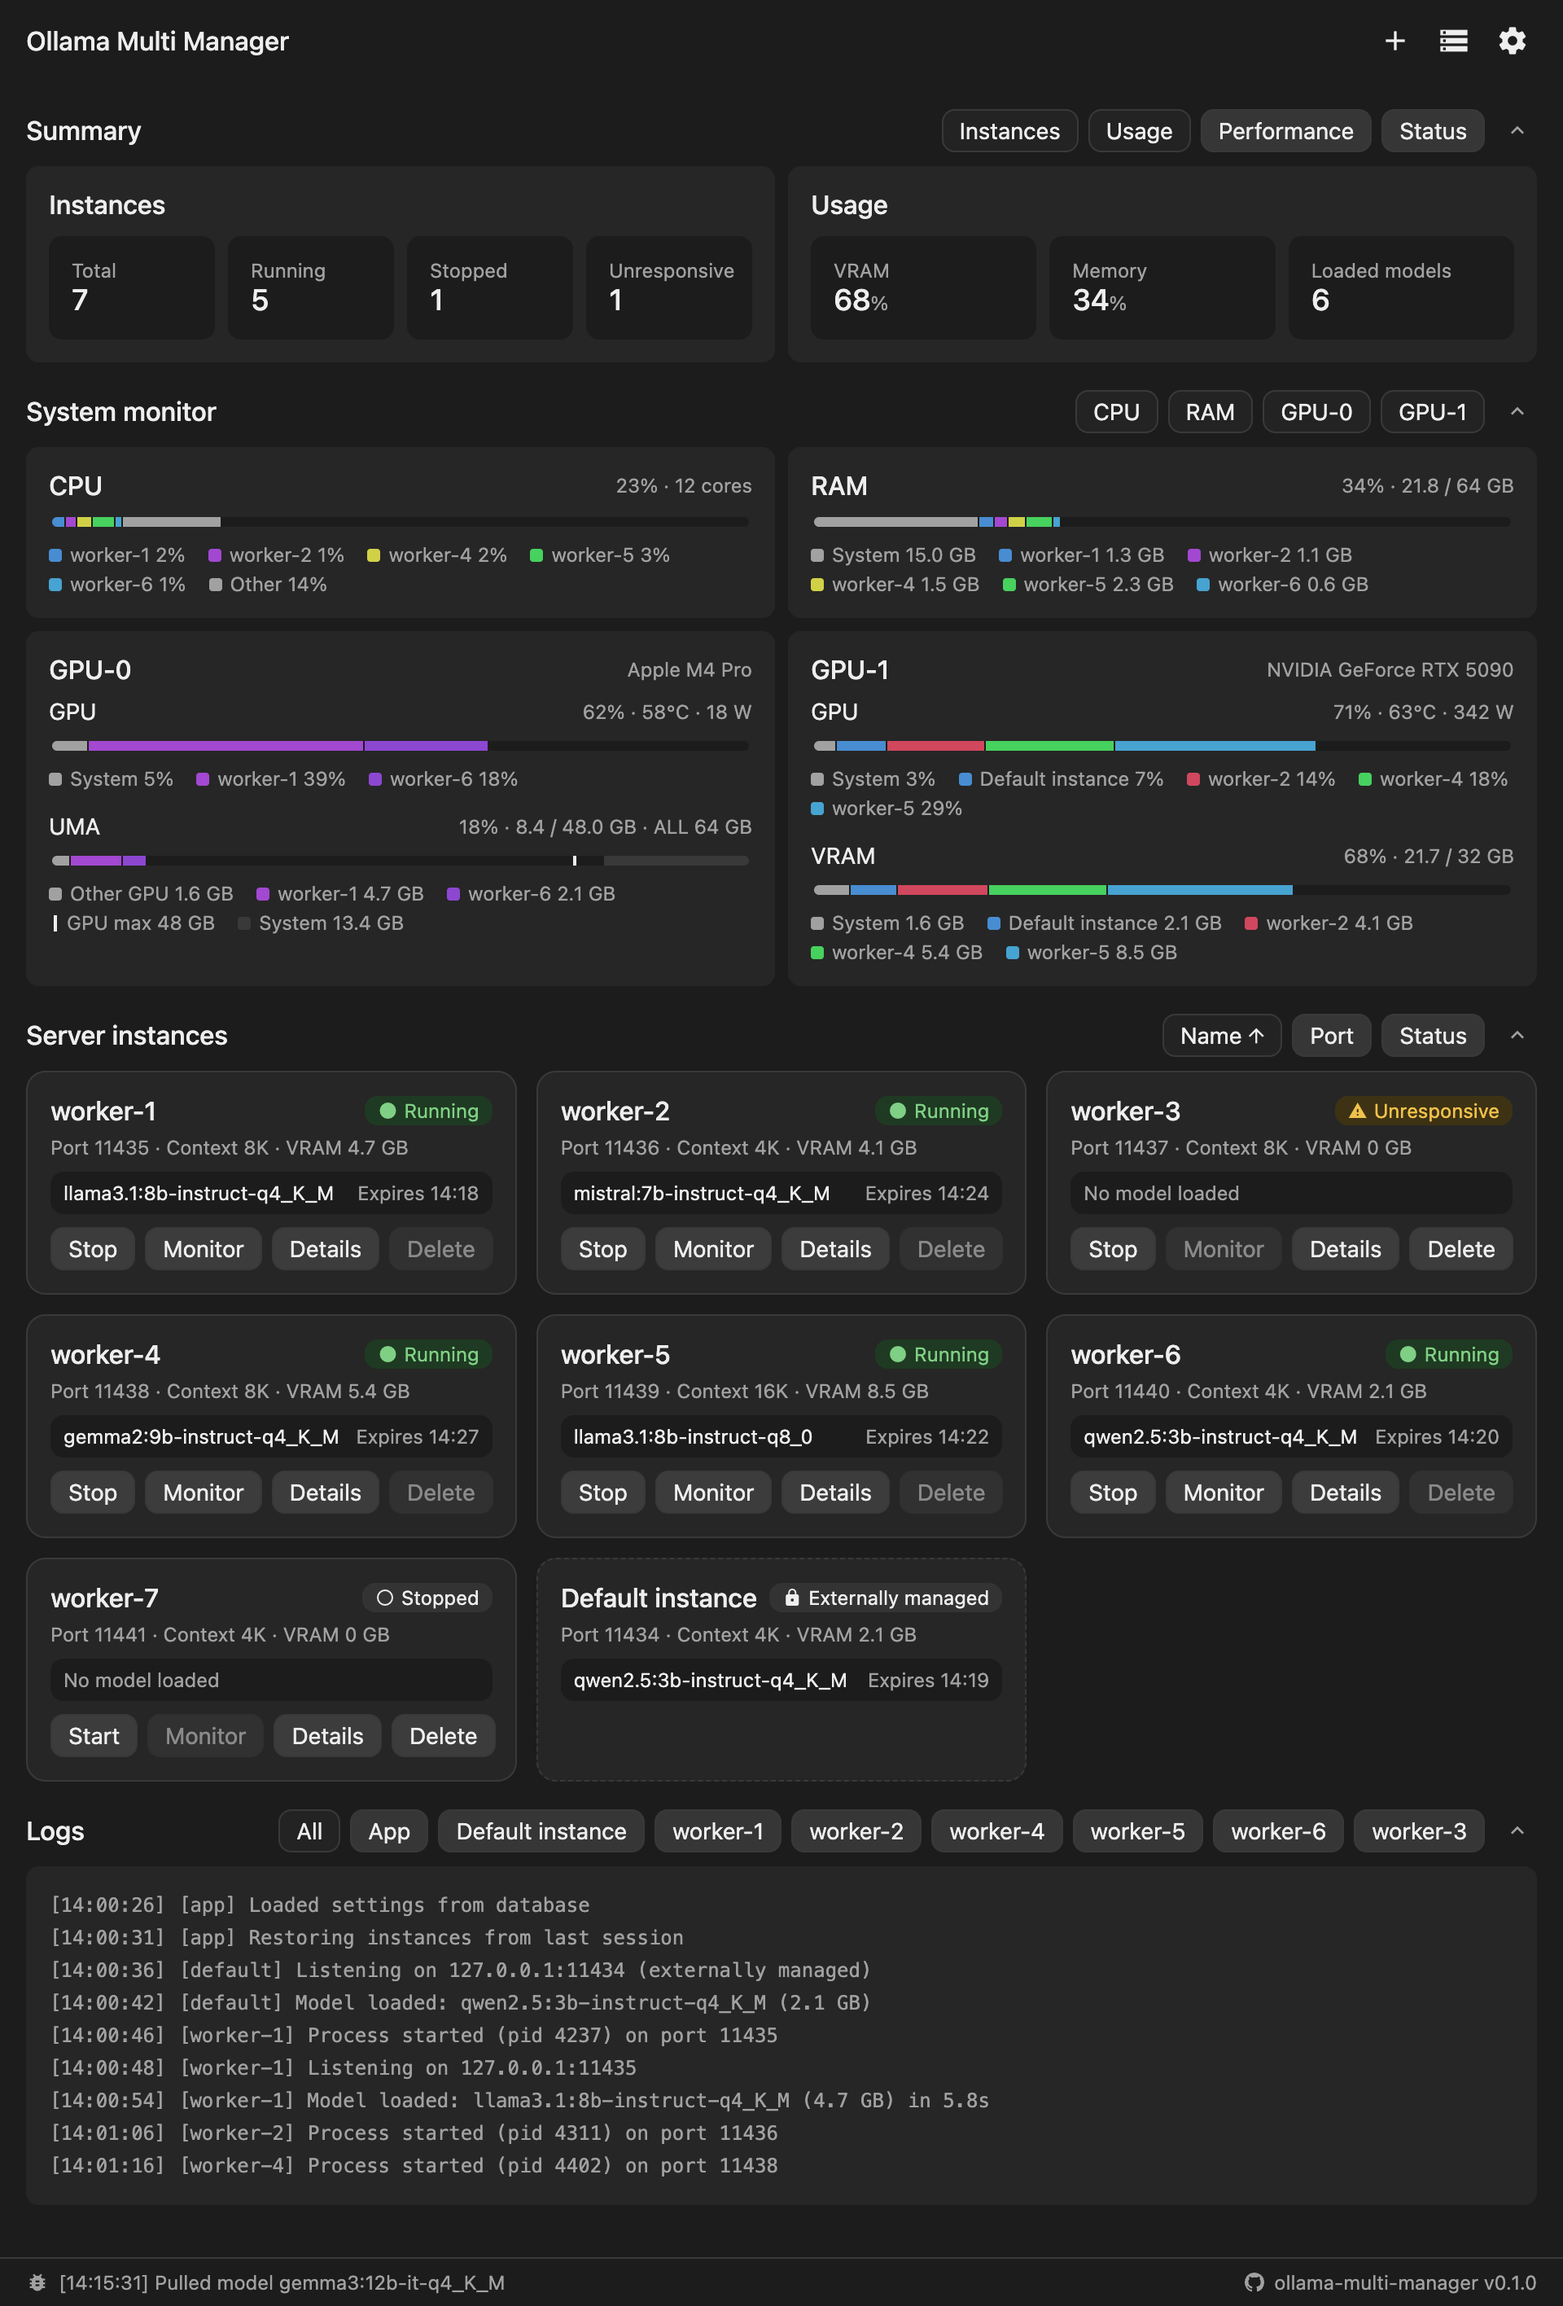
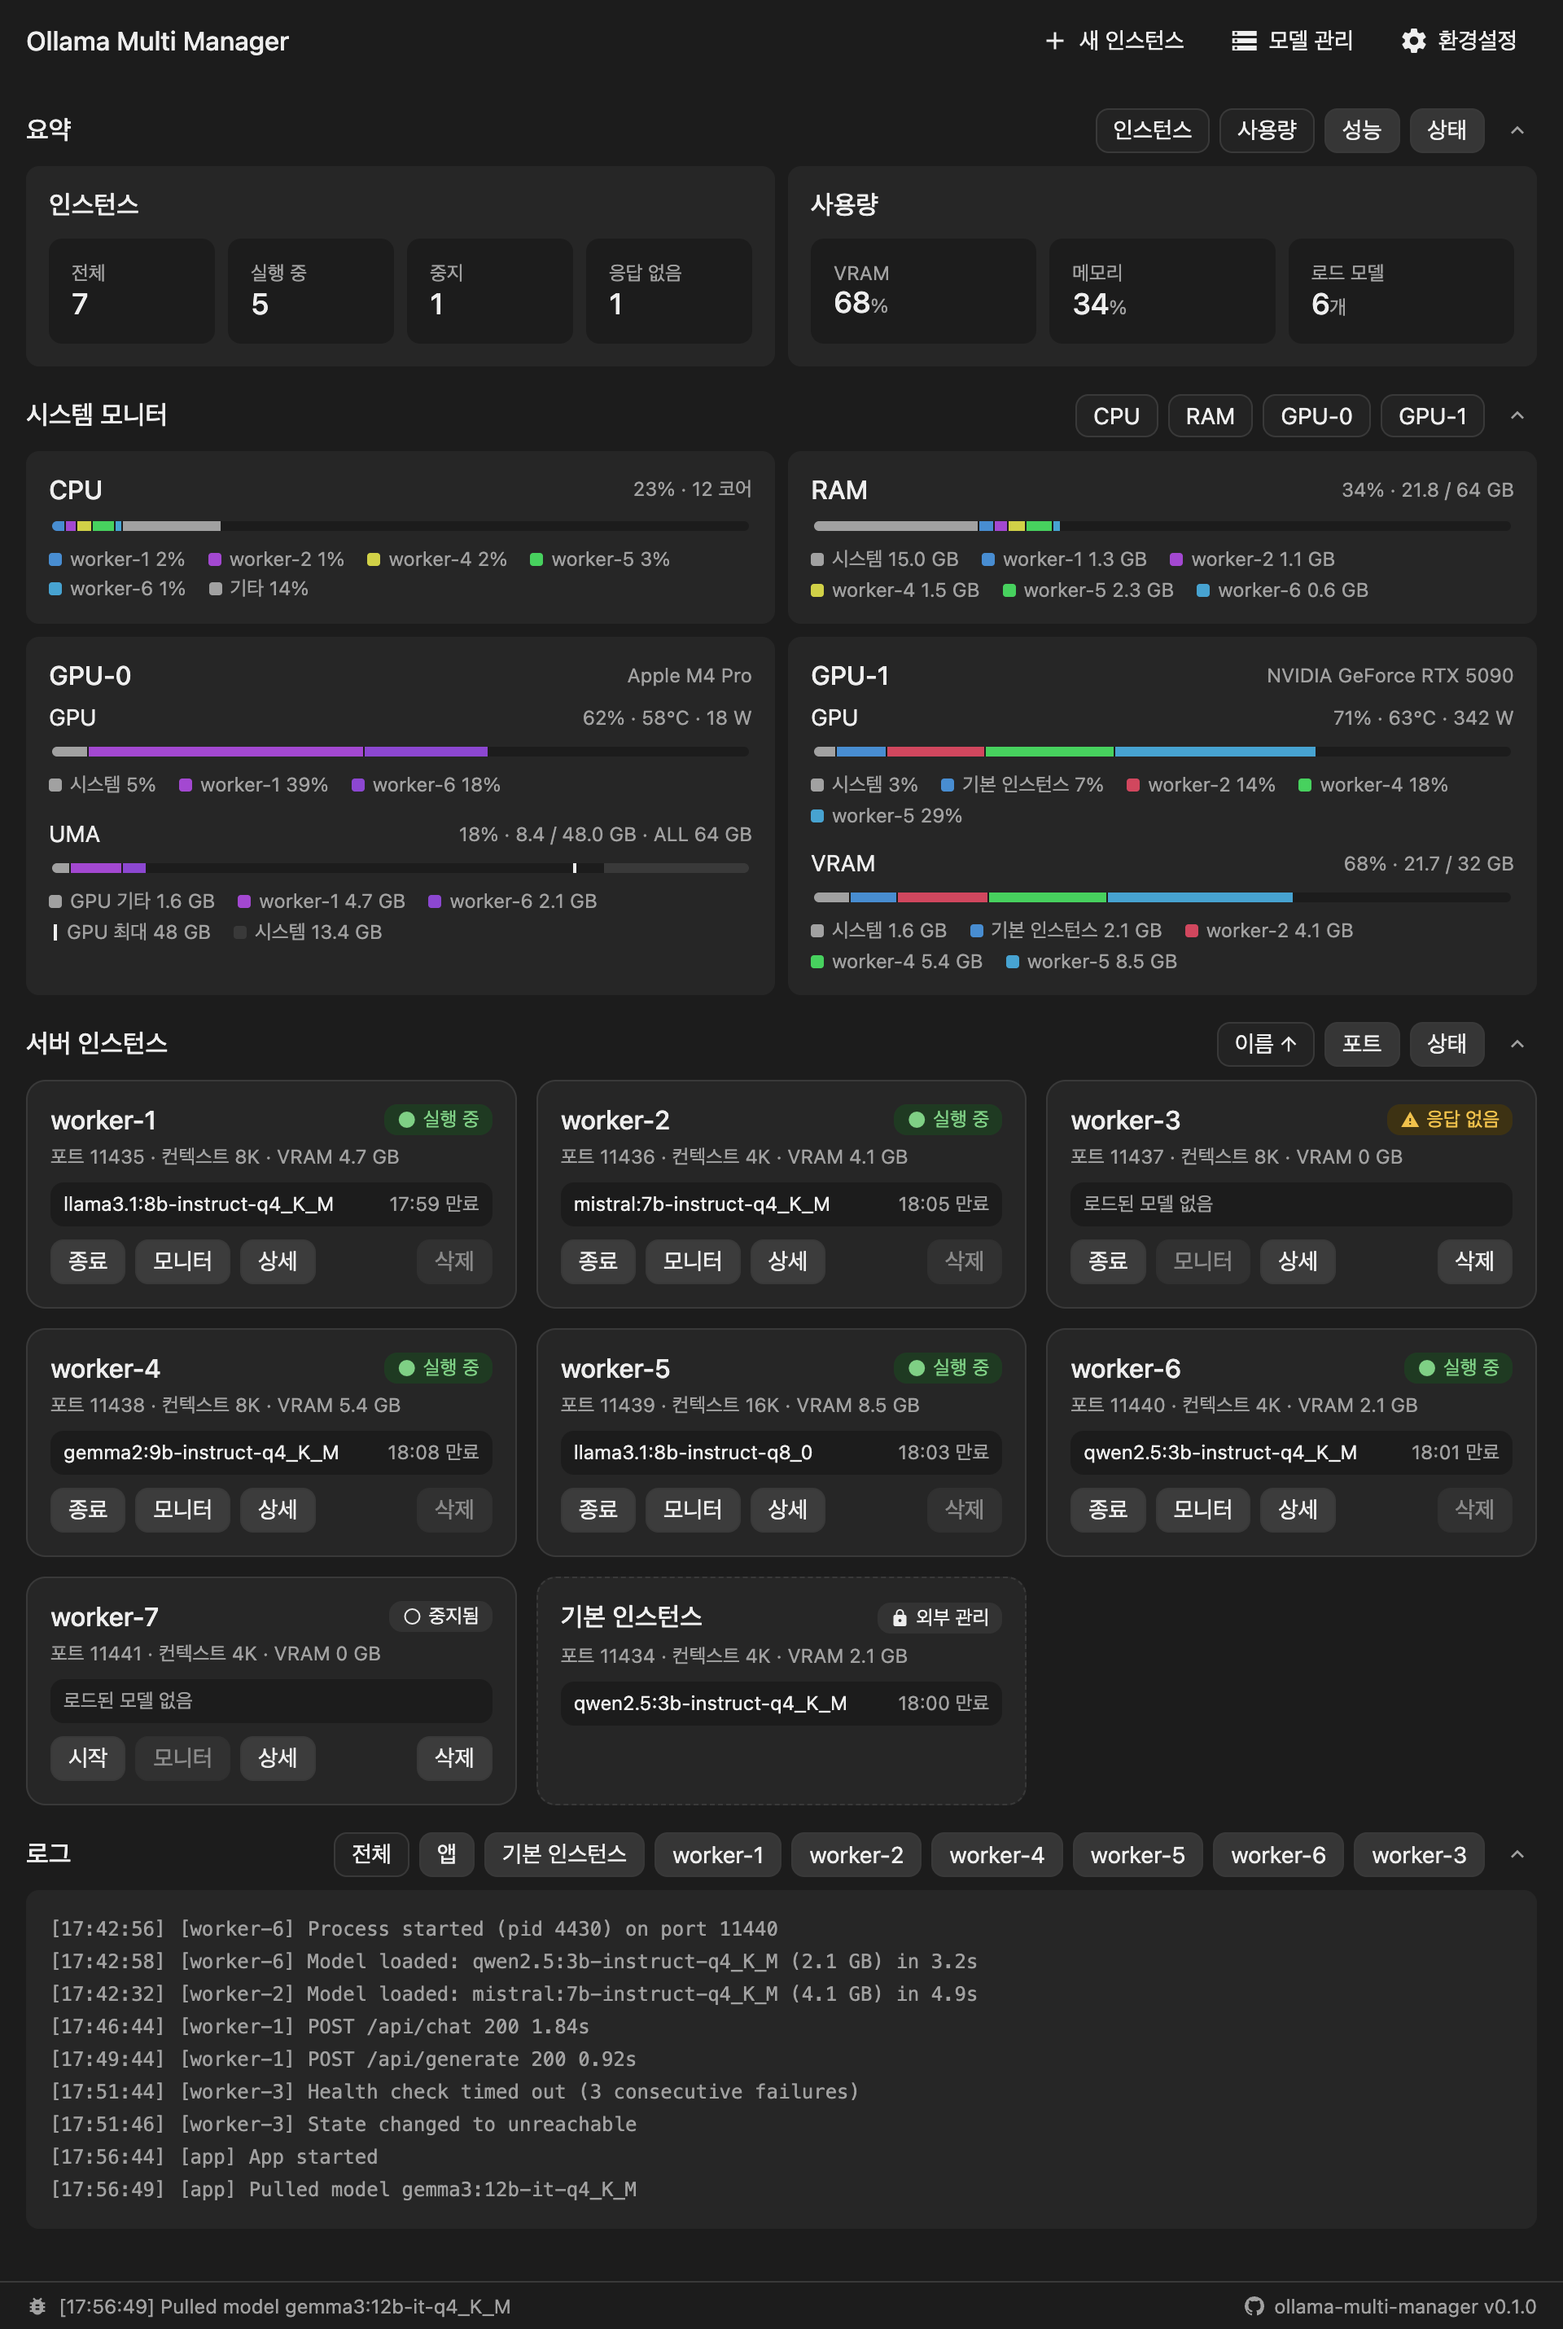
헤더 버튼을 아이콘+라벨로 바꾸고 640px 미만에서는 아이콘만 표시, 목업 스크린샷 교체

diff --git a/frontend/mockup/index.html b/frontend/mockup/index.html
@@ -9,8 +9,8 @@
 :root[data-theme=light]{color-scheme:light}:root[data-theme=dark]{color-scheme:dark}
 *{box-sizing:border-box}body{margin:0;height:100vh;height:100dvh;display:flex;flex-direction:column;overflow:hidden;font:.875rem system-ui,sans-serif;background:var(--bg);color:var(--text)}
 header,main{max-width:960px;margin:auto;padding:16px}main{max-width:none;margin:0;flex:1;min-height:0;overflow-y:auto;padding-inline:max(16px,calc((100% - 928px)/2))}header{max-width:none;margin:0}header{flex:none;height:50px;padding:10px 16px;display:flex;align-items:center;gap:12px}header h1{flex:0 1 auto;min-width:0;overflow:hidden;text-overflow:ellipsis}
-header i.material-icons{display:none}header button{height:30px;white-space:nowrap}header .btns{margin-left:auto;flex:none}
-header:not(.mwh) i.material-icons{display:inline-block;font-size:1.25rem}header:not(.mwh) button{width:30px;height:30px;padding:0;display:inline-flex;align-items:center;justify-content:center;border:0;background:none}header:not(.mwh) button:hover{background:light-dark(var(--ghost-hover),var(--card))}header:not(.mwh) button:active{background:light-dark(var(--ghost-active),color-mix(in srgb,var(--card) 88%,var(--text)))}header:not(.mwh) button span{display:none}
+header i.material-icons{display:none}header button{height:30px;white-space:nowrap}header .btns{margin-left:auto;flex:none}header:not(.mwh) .btns{display:flex;gap:4px}header:not(.mwh) i.material-icons{display:inline-block;font-size:1.125rem}header:not(.mwh) button{height:30px;padding:0 12px;display:inline-flex;align-items:center;gap:6px;border:0;background:none}header:not(.mwh) button:hover{background:light-dark(var(--ghost-hover),var(--card))}header:not(.mwh) button:active{background:light-dark(var(--ghost-active),color-mix(in srgb,var(--card) 88%,var(--text)))}@media(max-width:639.98px){header:not(.mwh) button{width:30px;padding:0;justify-content:center}header:not(.mwh) button span{display:none}}
+
 footer{flex:none;height:30px;background:var(--bg);border-top:1px solid var(--line)}footer div{height:100%;padding:0 16px;display:flex;align-items:center;justify-content:space-between;gap:16px;font-size:.75rem;color:var(--sub)}footer .l{min-width:0;display:flex;align-items:center;gap:6px}footer .l .material-icons{flex:none;font-size:.875rem}#status{min-width:0;white-space:nowrap;overflow:hidden;text-overflow:ellipsis}#ver{flex:none;display:inline-flex;align-items:center;gap:6px;color:inherit}#ver svg{flex:none}
 #det:has(#pn) .box,#det:has(#mp) .box,#det:has(#dt) .box,#dlg .box{background:var(--bg);--surf:var(--bg)}
 #det:has(#pn) input,#det:has(#mp) input:not([type=checkbox]),#det:has(#mp) select,#dlg input:not(.sw),#dlg select{background:var(--field)}

diff --git a/frontend/src/styles/_header.scss b/frontend/src/styles/_header.scss
@@ -52,21 +52,25 @@ header {
   }
 }
 
-// the buttons of the page's header are icons only, with no fill: just a hover and press shade
-// (the monitor window's category buttons keep their words and their look)
+// the page header's buttons: an icon before the label, no border or fill, just a hover and press shade
+// (the monitor window's category buttons keep their look)
 header:not(.mwh) {
+  .btns {
+    display: flex;
+    gap: 4px;
+  }
+
   i.material-icons {
     display: inline-block;
-    font-size: 1.25rem;
+    font-size: 1.125rem;
   }
 
   button {
-    width: 30px;
     height: 30px;
-    padding: 0;
+    padding: 0 12px;
     display: inline-flex;
     align-items: center;
-    justify-content: center;
+    gap: 6px;
     border: 0;
     background: none;
 
@@ -78,9 +82,18 @@ header:not(.mwh) {
     &:active {
       background: light-dark(var(--ghost-active),color-mix(in srgb,var(--card) 88%,var(--text)));
     }
+  }
 
-    span {
-      display: none;
+  // narrower than 640px: icons only
+  @media (max-width: 639.98px) {
+    button {
+      width: 30px;
+      padding: 0;
+      justify-content: center;
+
+      span {
+        display: none;
+      }
     }
   }
 }
